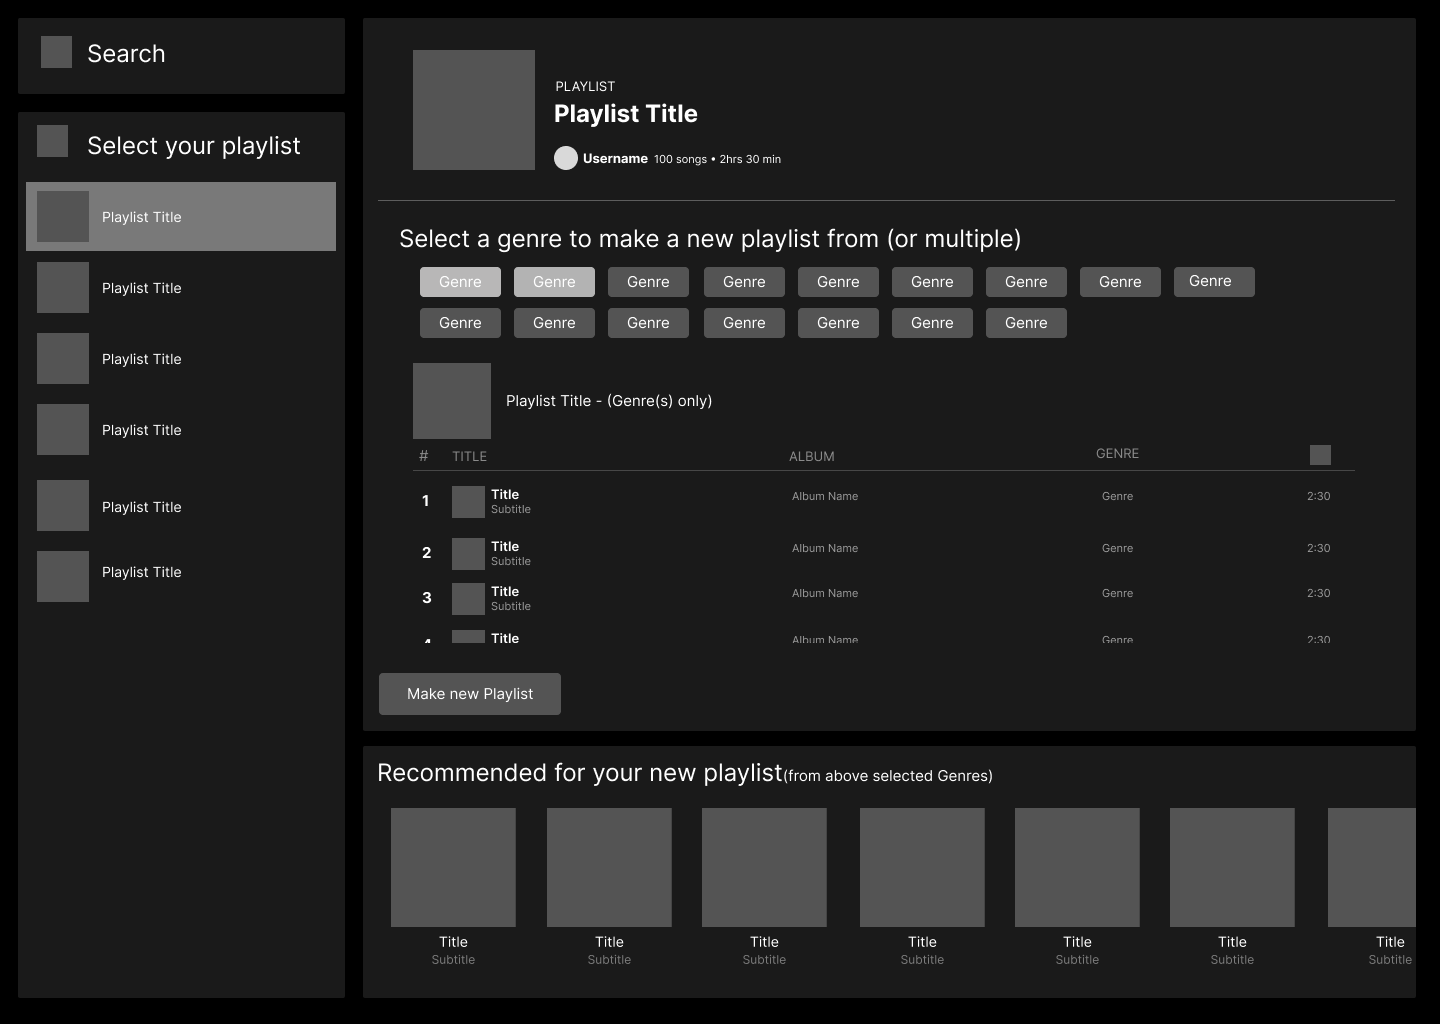
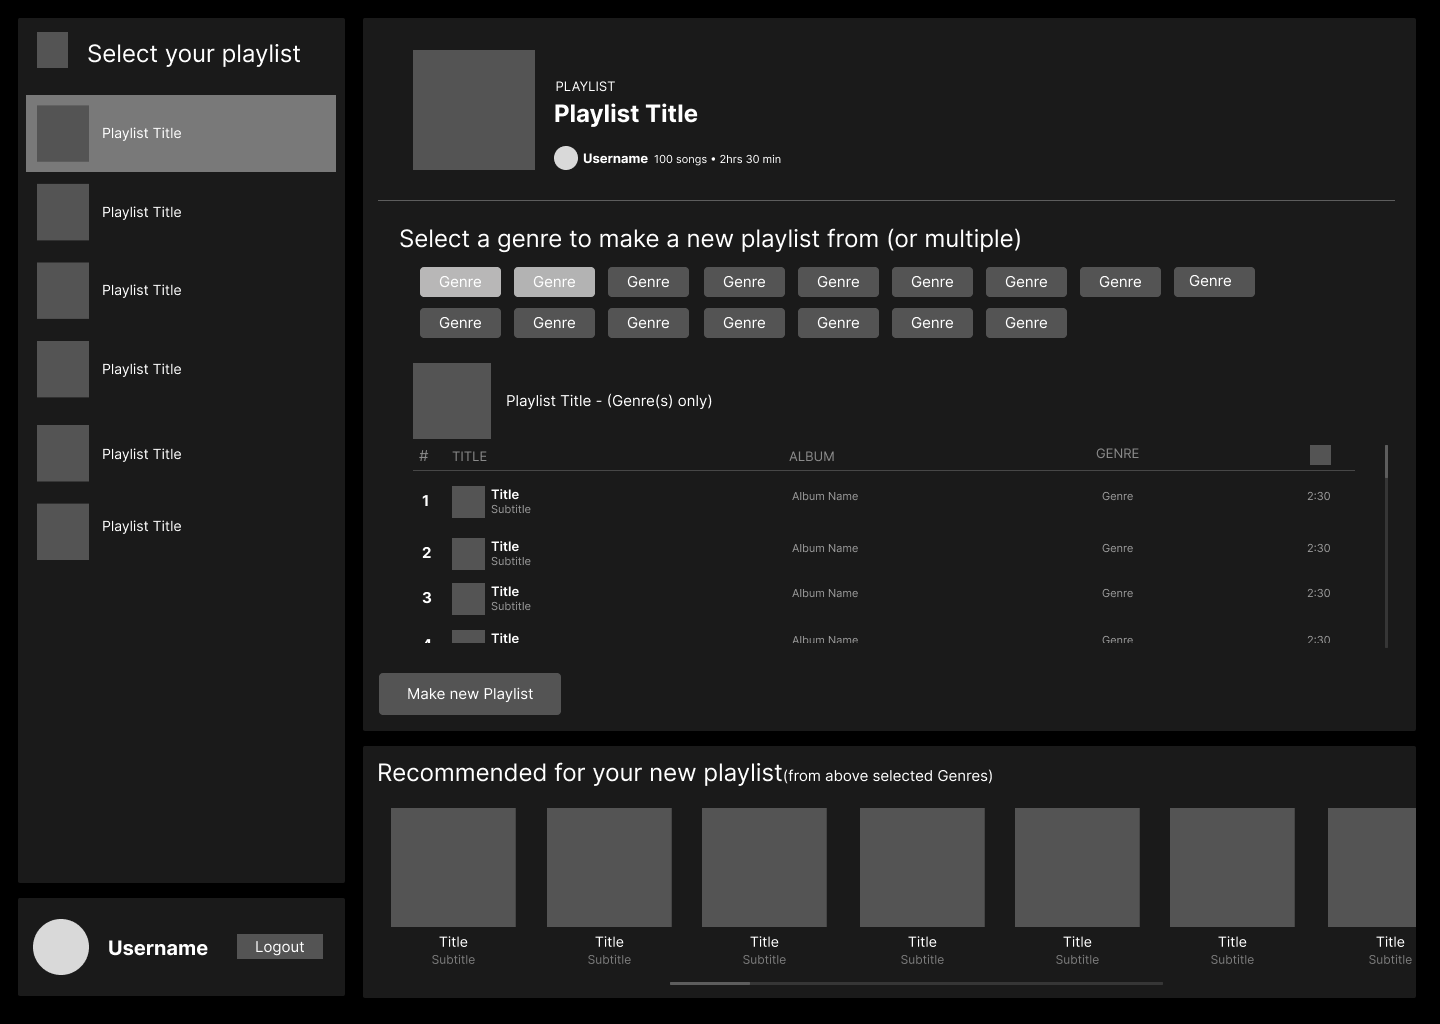
component files made, each with skeleton

diff --git a/public/index.html b/public/index.html
@@ -10,34 +10,11 @@
       content="Web site created using create-react-app"
     />
     <link rel="apple-touch-icon" href="%PUBLIC_URL%/logo192.png" />
-    <!--
-      manifest.json provides metadata used when your web app is installed on a
-      user's mobile device or desktop. See https://developers.google.com/web/fundamentals/web-app-manifest/
-    -->
     <link rel="manifest" href="%PUBLIC_URL%/manifest.json" />
-    <!--
-      Notice the use of %PUBLIC_URL% in the tags above.
-      It will be replaced with the URL of the `public` folder during the build.
-      Only files inside the `public` folder can be referenced from the HTML.
-
-      Unlike "/favicon.ico" or "favicon.ico", "%PUBLIC_URL%/favicon.ico" will
-      work correctly both with client-side routing and a non-root public URL.
-      Learn how to configure a non-root public URL by running `npm run build`.
-    -->
     <title>React App</title>
   </head>
   <body>
     <noscript>You need to enable JavaScript to run this app.</noscript>
     <div id="root"></div>
-    <!--
-      This HTML file is a template.
-      If you open it directly in the browser, you will see an empty page.
-
-      You can add webfonts, meta tags, or analytics to this file.
-      The build step will place the bundled scripts into the <body> tag.
-
-      To begin the development, run `npm start` or `yarn start`.
-      To create a production bundle, use `npm run build` or `yarn build`.
-    -->
   </body>
 </html>

diff --git a/src/App.tsx b/src/App.tsx
@@ -1,7 +1,27 @@
+import { useState } from 'react';
+import LoginPage from './components/LoginPage';
+import SelectPlaylist from './components/SelectPlaylist';
+import Logout from './components/Logout';
+import EditPlaylist from './components/EditPlaylist';
+import Recommended from './components/Recommended';
 
 function App() {
+  const [ isLoggedIn, setIsLoggedIn ] = useState(false);
+
   return (
     <div className="App">
+      {/* if Logged in, show */}
+      { isLoggedIn ?
+          <div>
+            <SelectPlaylist/>
+            <Logout/>
+            <EditPlaylist/>
+            <Recommended/>
+
+          </div>
+        : 
+        <LoginPage/>
+      }
     </div>
   );
 }

diff --git a/src/components/Logout.tsx b/src/components/Logout.tsx
@@ -1,0 +1,12 @@
+function Logout() {
+    return (
+        <div>
+            
+            {/* profile img */}
+            {/* username */}
+            {/* logout btn */}
+        </div>
+    );
+}
+
+export default Logout;

diff --git a/src/components/SelectPlaylist.tsx b/src/components/SelectPlaylist.tsx
@@ -1,0 +1,9 @@
+function SelectPlaylist() {
+    return (
+        <div>
+            
+        </div>
+    );
+}
+
+export default SelectPlaylist;

diff --git a/src/components/EditPlaylist.tsx b/src/components/EditPlaylist.tsx
@@ -1,0 +1,9 @@
+function EditPlaylist() {
+    return (
+        <div>
+            
+        </div>
+    );
+}
+
+export default EditPlaylist;

diff --git a/src/components/Recommended.tsx b/src/components/Recommended.tsx
@@ -1,0 +1,9 @@
+function Recommended() {
+    return (
+        <div>
+            
+        </div>
+    );
+}
+
+export default Recommended;

diff --git a/src/components/ErrorPopup.tsx b/src/components/ErrorPopup.tsx
@@ -1,0 +1,9 @@
+function ErrorPopup() {
+    return (
+        <div>
+            
+        </div>
+    );
+}
+
+export default ErrorPopup;

diff --git a/src/components/LoginPage.tsx b/src/components/LoginPage.tsx
@@ -1,0 +1,9 @@
+function LoginPage() {
+    return (
+        <div>
+            
+        </div>
+    );
+}
+
+export default LoginPage;
